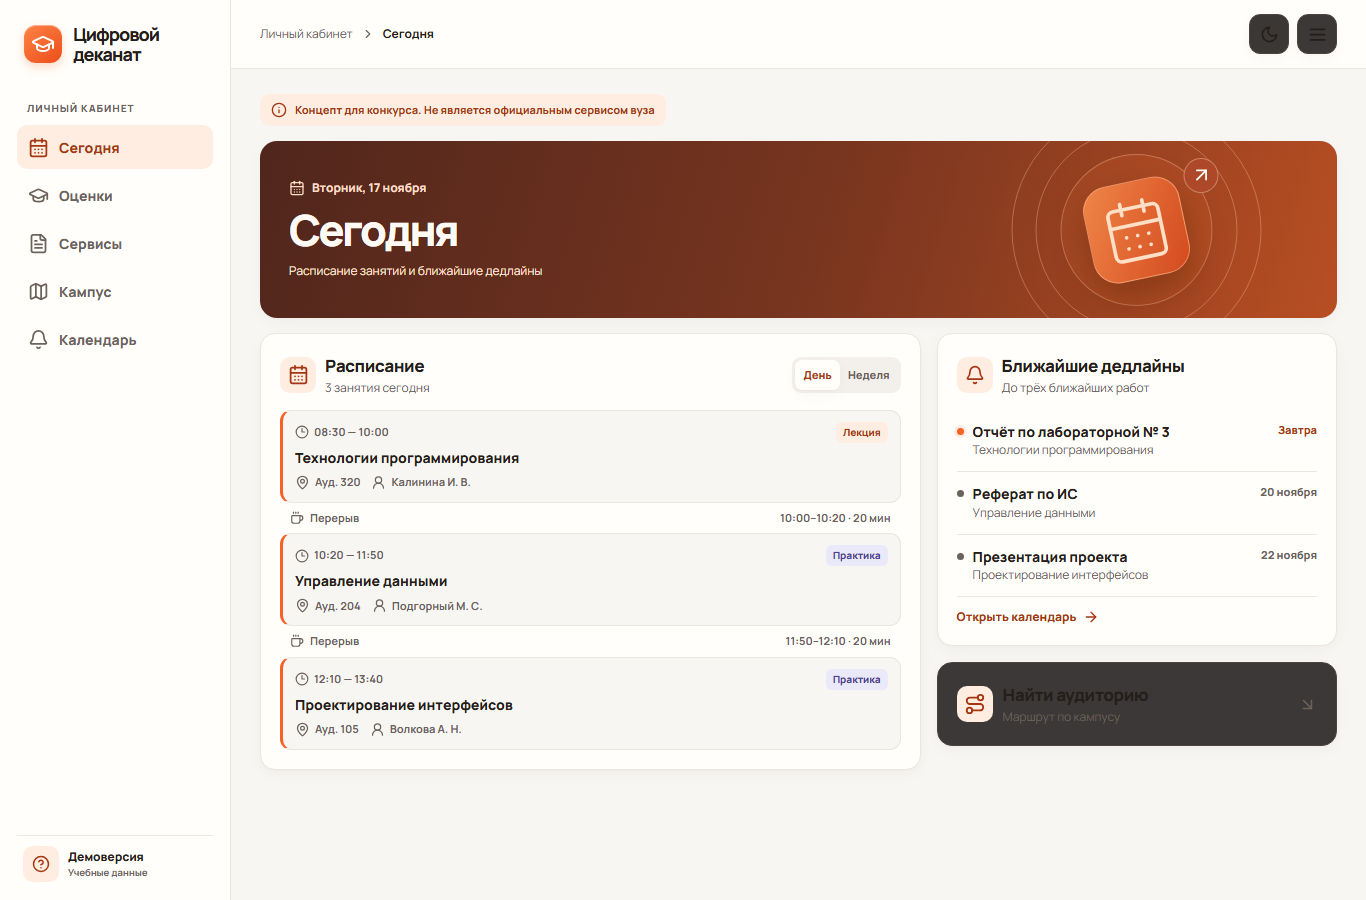
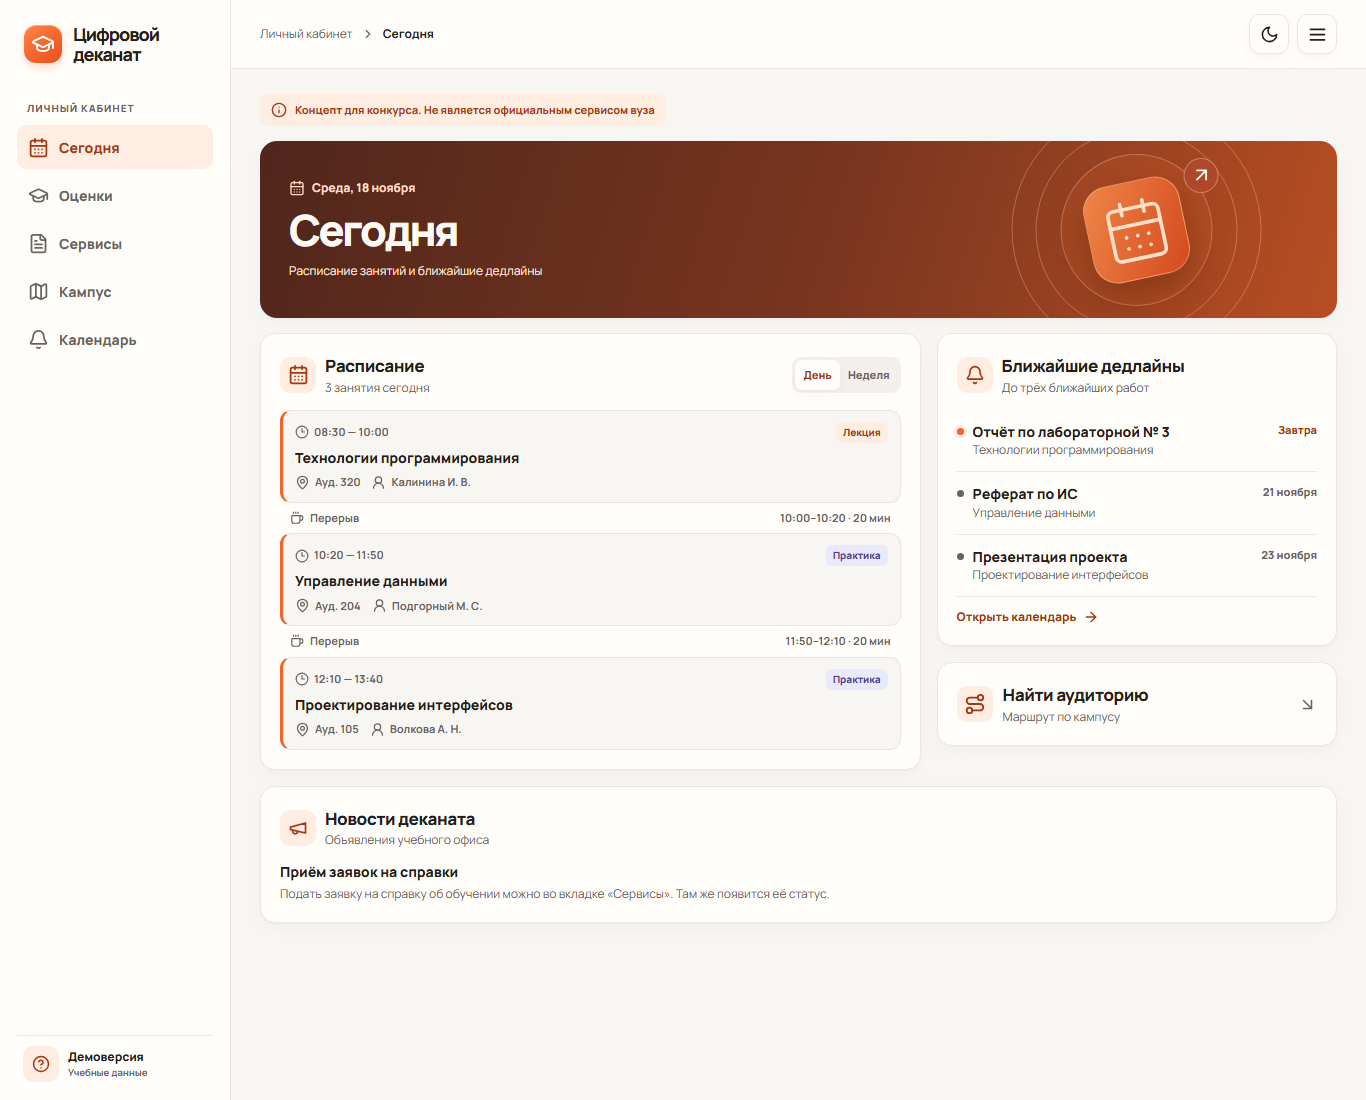
feat: выбор недели в расписании, новости на главной, выбор семестра

diff --git a/components/dashboard.tsx b/components/dashboard.tsx
@@ -3,16 +3,16 @@ import Link from "next/link";
 import { useEffect, useState, useTransition } from "react";
 import {
   ArrowDownRight, ArrowRight, ArrowUpRight, Bell, CalendarDays, ChevronLeft, ChevronRight,
-  CircleHelp, Clock3, Coffee, FileText, GraduationCap, Info, LogOut, Map, MapPin, Menu,
+  CircleHelp, Clock3, Coffee, FileText, GraduationCap, Info, LogOut, Map, MapPin, Megaphone, Menu,
   Route, Shield, UserRound, X, type LucideIcon,
 } from "lucide-react";
 import { apply, changeStatus, logout } from "@/app/actions";
-import { campusDay, dateLabel, plusDays, services, statuses, timeLabel, type DashboardData } from "@/lib/model";
+import { campusDay, dateLabel, plusDays, services, statuses, timeLabel, weekStart, weeksBetween, type DashboardData } from "@/lib/model";
 import type { Tab } from "@/lib/tabs";
 import { Button } from "@/components/ui/button";
 import { ThemeToggle } from "@/components/theme";
 import { Campus } from "./campus";
-import { DeadlineCalendar } from "./calendar";
+import { DeadlineCalendar, WeekPicker } from "./calendar";
 import type { RequestType } from "@prisma/client";
 
 const navigation: { id: Tab; title: string; icon: LucideIcon }[] = [
@@ -28,12 +28,16 @@ function Empty({ children }: { children: React.ReactNode }) {
 }
 
 const lessonForms: Record<string, string> = { one: "занятие", few: "занятия", many: "занятий" };
+function countLabel(count: number, forms: [string, string, string]) {
+  const rule = new Intl.PluralRules("ru").select(count);
+  return count + " " + forms[rule === "one" ? 0 : rule === "few" ? 1 : 2];
+}
 
 function Schedule({ day, lessons, mapUrl }: { day: string; lessons: DashboardData["lessons"]; mapUrl: string }) {
   const [weekly, setWeekly] = useState(false);
   const [offset, setOffset] = useState(0);
-  const weekday = (plusDays(day, 0).getUTCDay() + 6) % 7;
-  const days = weekly ? Array.from({ length: 7 }, (_, index) => plusDays(day, offset * 7 + index - weekday)) : [plusDays(day, 0)];
+  const monday = campusDay(weekStart(day));
+  const days = weekly ? Array.from({ length: 7 }, (_, index) => plusDays(monday, offset * 7 + index)) : [plusDays(day, 0)];
   const selected = lessons.filter((lesson) => campusDay(new Date(lesson.startsAt)) === day);
   return <section className="panel schedule">
     <div className="section-head"><div className="heading-with-icon"><span className="soft-icon"><CalendarDays size={21} /></span><div><h2>Расписание</h2><p className="muted">{weekly ? "Занятия по дням недели" : selected.length + " " + lessonForms[new Intl.PluralRules("ru").select(selected.length)] + " сегодня"}</p></div></div>
@@ -43,7 +47,7 @@ function Schedule({ day, lessons, mapUrl }: { day: string; lessons: DashboardDat
       </div>
     </div>
     {weekly && <div className="week-controls"><Button variant="icon" aria-label="Предыдущая неделя" onClick={() => setOffset(offset - 1)}><ChevronLeft size={18} /></Button>
-      <span>{dateLabel(days[0])} — {dateLabel(days[6])}</span>
+      <WeekPicker week={plusDays(monday, offset * 7)} today={day} onPick={(date) => setOffset(weeksBetween(day, campusDay(date)))} />
       <Button variant="icon" aria-label="Следующая неделя" onClick={() => setOffset(offset + 1)}><ChevronRight size={18} /></Button></div>}
     {days.map((date) => {
       const rows = lessons.filter((item) => campusDay(new Date(item.startsAt)) === campusDay(date));
@@ -85,13 +89,24 @@ function Deadlines({ items, day, href }: { items: DashboardData["deadlines"]; da
   </section>;
 }
 
+function News({ items }: { items: DashboardData["news"] }) {
+  return <section className="panel news">
+    <div className="section-head"><div className="heading-with-icon"><span className="soft-icon"><Megaphone size={20} /></span><div><h2>Новости деканата</h2><p className="muted">Объявления учебного офиса</p></div></div></div>
+    {items.length ? <div className="news-list">{items.map((item) => <article key={item.id}><h3>{item.title}</h3><p className="muted">{item.body}</p></article>)}</div> : <Empty>Новостей пока нет</Empty>}
+  </section>;
+}
+
 function Grades({ grades }: { grades: DashboardData["grades"] }) {
-  const [all, setAll] = useState(false);
-  const term = Math.max(...grades.map((grade) => grade.term));
-  const rows = all ? grades : grades.filter((grade) => grade.term === term);
+  const terms = [...new Set(grades.map((grade) => grade.term))].sort((left, right) => right - left);
+  const [view, setView] = useState(() => (terms.length ? String(terms[0]) : "all"));
+  const all = view === "all";
+  const rows = all ? grades : grades.filter((grade) => String(grade.term) === view);
   return <section className="panel">
-    <div className="section-head"><div><h2>Дисциплины</h2><p className="muted">{grades.length ? "Семестр " + term : "Баллы по дисциплинам"}</p></div>
-      <div className="segmented"><button aria-pressed={!all} onClick={() => setAll(false)}>Семестр</button><button aria-pressed={all} onClick={() => setAll(true)}>Вся учёба</button></div></div>
+    <div className="section-head"><div><h2>Дисциплины</h2><p className="muted">{grades.length ? (all ? "Все семестры" : "Семестр " + view) + " · " + countLabel(rows.length, ["дисциплина", "дисциплины", "дисциплин"]) : "Баллы по дисциплинам"}</p></div>
+      <select className="select-control" aria-label="Семестр" value={view} onChange={(event) => setView(event.target.value)} disabled={!grades.length}>
+        {terms.map((value) => <option key={value} value={String(value)}>Семестр {value}</option>)}
+        <option value="all">Вся учёба</option>
+      </select></div>
     {rows.length === 0 && <Empty>Оценок пока нет</Empty>}
     {rows.map((grade) => {
       const left = Math.max(0, grade.threshold - grade.score);
@@ -194,20 +209,20 @@ export function Dashboard({ tab, day, data, role, name, demo = false, initialRoo
         <div className="banner-content"><p><CalendarDays size={16} /> <span className="banner-date">{dateLabel(plusDays(day, 0), true)}</span></p><h1>Сегодня</h1><div>Расписание занятий и ближайшие дедлайны</div></div>
         <div className="banner-art" aria-hidden="true"><div className="orbit orbit-one" /><div className="orbit orbit-two" /><div className="orbit orbit-three" /><div className="banner-icon"><CalendarDays size={68} strokeWidth={1.3} /></div><span className="art-arrow"><ArrowUpRight size={22} /></span></div>
       </section> : <div className="page-heading"><h1>{title}</h1></div>}
-      {tab === "today" && <div className="dashboard-grid">
-        <Schedule lessons={data.lessons} day={day} mapUrl={base + "map"} />
-        <div className="content-stack"><Deadlines items={data.deadlines} day={day} href={base + "calendar"} />
-          <Link className="panel route-link" href={base + "map"}><span className="soft-icon"><Route size={22} /></span><div><h2>Найти аудиторию</h2><p className="muted">Маршрут по кампусу</p></div><ArrowDownRight size={19} /></Link>
+      {tab === "today" && <div className="content-stack">
+        <div className="dashboard-grid">
+          <Schedule lessons={data.lessons} day={day} mapUrl={base + "map"} />
+          <div className="content-stack"><Deadlines items={data.deadlines} day={day} href={base + "calendar"} />
+            <Link className="panel route-link" href={base + "map"}><span className="soft-icon"><Route size={22} /></span><div><h2>Найти аудиторию</h2><p className="muted">Маршрут по кампусу</p></div><ArrowDownRight size={19} /></Link>
+          </div>
         </div>
+        <News items={data.news} />
       </div>}
       {tab === "grades" && <Grades grades={data.grades} />}
       {tab === "services" && <Services role={role} requests={data.requests} demo={demo} />}
       {tab === "map" && <Campus key={initialRoom ?? "campus"} lessons={data.lessons} initialRoom={initialRoom} />}
       {tab === "calendar" && <div className="content-stack">
         <div className="dashboard-grid campus-grid"><DeadlineCalendar day={day} items={data.deadlines} selected={selectedDay} onSelect={setSelectedDay} /><Deadlines items={selectedDay ? data.deadlines.filter((item) => campusDay(new Date(item.dueAt)) === selectedDay) : data.deadlines} day={day} /></div>
-        <details className="panel news"><summary>Новости деканата</summary>
-          {data.news.length ? data.news.map((item) => <article key={item.id}><h3>{item.title}</h3><p className="muted">{item.body}</p></article>) : <Empty>Новостей пока нет</Empty>}
-        </details>
       </div>}
     </main></div>
     {nav("bottom-nav")}

diff --git a/components/calendar.tsx b/components/calendar.tsx
@@ -1,8 +1,19 @@
 "use client";
 import { useState } from "react";
-import { ChevronLeft, ChevronRight } from "lucide-react";
+import { ChevronDown, ChevronLeft, ChevronRight } from "lucide-react";
 import { Button } from "@/components/ui/button";
 import { campusDay, dateLabel, plusDays, type DashboardData } from "@/lib/model";
+
+const weekdays = ["Пн", "Вт", "Ср", "Чт", "Пт", "Сб", "Вс"];
+
+function monthOf(date: Date) {
+  return new Date(Date.UTC(date.getUTCFullYear(), date.getUTCMonth(), 1, 12));
+}
+function rangeLabel(from: Date, to: Date) {
+  const day = (date: Date) => new Intl.DateTimeFormat("ru-RU", { timeZone: "Europe/Moscow", day: "numeric" }).format(date);
+  const dayMonth = (date: Date) => new Intl.DateTimeFormat("ru-RU", { timeZone: "Europe/Moscow", day: "numeric", month: "long" }).format(date);
+  return campusDay(from).slice(0, 7) === campusDay(to).slice(0, 7) ? day(from) + " — " + dayMonth(to) : dayMonth(from) + " — " + dayMonth(to);
+}
 
 export function DeadlineCalendar({ day, items, selected, onSelect }: {
   day: string;
@@ -25,7 +36,7 @@ export function DeadlineCalendar({ day, items, selected, onSelect }: {
       <Button variant="icon" aria-label="Следующий месяц" onClick={() => shift(1)}><ChevronRight size={18} /></Button>
     </div>
     <div className="calendar-grid">
-      {["Пн", "Вт", "Ср", "Чт", "Пт", "Сб", "Вс"].map((label) => <span className="muted" key={label}>{label}</span>)}
+      {weekdays.map((label) => <span className="muted" key={label}>{label}</span>)}
       {Array.from({ length: start }, (_, index) => <span key={"blank" + index} />)}
       {Array.from({ length: days }, (_, index) => {
         const date = plusDays(initial, index);
@@ -37,4 +48,59 @@ export function DeadlineCalendar({ day, items, selected, onSelect }: {
     </div>
     {selected && <button className="text-link" onClick={() => onSelect("")}>Показать все контрольные точки</button>}
   </section>;
+}
+
+export function WeekPicker({ week, today, onPick }: {
+  week: Date;
+  today: string;
+  onPick: (date: Date) => void;
+}) {
+  const [open, setOpen] = useState(false);
+  const [month, setMonth] = useState(() => monthOf(week));
+  const monday = campusDay(week);
+  const sunday = campusDay(plusDays(monday, 6));
+  const start = (month.getUTCDay() + 6) % 7;
+  const days = new Date(Date.UTC(month.getUTCFullYear(), month.getUTCMonth() + 1, 0)).getUTCDate();
+  function shift(offset: number) {
+    setMonth(new Date(Date.UTC(month.getUTCFullYear(), month.getUTCMonth() + offset, 1, 12)));
+  }
+  function toggle() {
+    setOpen(!open);
+    setMonth(monthOf(week));
+  }
+  function pick(date: Date) {
+    onPick(date);
+    setOpen(false);
+  }
+  return <div className="week-picker" onKeyDown={(event) => { if (event.key === "Escape") setOpen(false); }}>
+    <button type="button" className="week-trigger" aria-expanded={open} aria-haspopup="dialog" onClick={toggle}>
+      {rangeLabel(week, plusDays(sunday, 0))} <ChevronDown size={15} />
+    </button>
+    {open && <>
+      <button type="button" className="week-backdrop" aria-label="Закрыть выбор недели" tabIndex={-1} onClick={() => setOpen(false)} />
+      <div className="panel week-popover" role="dialog" aria-label="Выбор недели">
+        <div className="section-head">
+          <Button variant="icon" aria-label="Предыдущий месяц" onClick={() => shift(-1)}><ChevronLeft size={18} /></Button>
+          <strong className="calendar-month">{new Intl.DateTimeFormat("ru-RU", { month: "long", year: "numeric", timeZone: "Europe/Moscow" }).format(month)}</strong>
+          <Button variant="icon" aria-label="Следующий месяц" onClick={() => shift(1)}><ChevronRight size={18} /></Button>
+        </div>
+        <div className="calendar-grid week-grid">
+          {weekdays.map((label) => <span className="muted" key={label}>{label}</span>)}
+          {Array.from({ length: start }, (_, index) => <span key={"blank" + index} />)}
+          {Array.from({ length: days }, (_, index) => {
+            const date = plusDays(campusDay(month), index);
+            const key = campusDay(date);
+            const inWeek = key >= monday && key <= sunday;
+            return <button key={key} type="button" className={inWeek ? "in-week" : undefined} aria-current={key === today ? "date" : undefined} aria-label={dateLabel(date, true) + (inWeek ? ", выбранная неделя" : "")} onClick={() => pick(date)} autoFocus={key === monday}>
+              {index + 1}
+            </button>;
+          })}
+        </div>
+        <div className="week-popover-foot">
+          <button type="button" className="link-button" onClick={() => pick(plusDays(today, 0))}>Текущая неделя</button>
+          <button type="button" className="link-button" onClick={() => setOpen(false)}>Закрыть</button>
+        </div>
+      </div>
+    </>}
+  </div>;
 }

diff --git a/app/globals.css b/app/globals.css
@@ -115,8 +115,9 @@ h3 { font-size: 14px; font-weight: 800; line-height: 1.4; }
 .route-steps { list-style: none; padding: 0; margin: 12px 0 0; display: grid; gap: 8px; }
 .route-steps li { display: flex; align-items: start; gap: 7px; font-size: 12px; }
 .route-steps svg { flex: none; color: var(--accent-ink); }
-.news summary { font-weight: 850; }
-.news article { padding-top: 9px; }
+.news-list { display: grid; gap: 10px; }
+.news-list article + article { border-top: 1px solid var(--line); padding-top: 10px; }
+.news-list h3 { margin-bottom: 3px; }
 .bottom-nav { position: fixed; inset: auto 0 0; z-index: 3; display: grid; grid-template-columns: repeat(5,1fr); background: var(--surface); border-top: 1px solid var(--line); padding: 4px 2px calc(4px + env(safe-area-inset-bottom)); }
 .bottom-nav a { display: grid; justify-items: center; align-content: center; min-height: 51px; gap: 3px; color: var(--muted); font-size: 10px; font-weight: 800; }
 .bottom-nav a[aria-current="page"] { color: var(--accent-ink); background: var(--tint); border-radius: 10px; }
@@ -170,4 +171,24 @@ h3 { font-size: 14px; font-weight: 800; line-height: 1.4; }
 .calendar-grid button:hover, .calendar-grid button[aria-current="date"] { background: var(--soft); }
 .calendar-grid .has-deadline { background: var(--tint); color: var(--accent-ink); }
 .calendar-grid button[aria-pressed="true"] { outline: 2px solid var(--accent); outline-offset: -2px; }
+.week-picker { position: relative; display: flex; justify-content: center; }
+.week-trigger { display: inline-flex; align-items: center; justify-content: center; gap: 6px; min-height: 34px; padding: 4px 10px; border: 1px solid var(--line); border-radius: 9px; background: var(--bg); color: var(--ink); font-size: 12px; font-weight: 800; }
+.week-trigger:hover { background: var(--soft); }
+.week-trigger[aria-expanded="true"] { border-color: var(--accent); background: var(--tint); color: var(--accent-ink); }
+.week-popover { position: absolute; z-index: 6; top: calc(100% + 8px); left: 50%; transform: translateX(-50%); width: min(288px, calc(100vw - 44px)); }
+.week-popover .section-head { margin-bottom: 8px; }
+.week-popover .calendar-month { font-size: 14px; }
+.week-grid button { min-height: 32px; }
+.week-grid .in-week { background: var(--tint); color: var(--accent-ink); }
+.week-grid button[aria-current="date"] { box-shadow: inset 0 0 0 2px var(--accent); }
+.week-popover-foot { display: flex; justify-content: space-between; gap: 8px; margin-top: 9px; padding-top: 9px; border-top: 1px solid var(--line); }
+.week-backdrop { display: none; }
+@media (max-width: 719px) {
+  .week-backdrop { display: block; position: fixed; inset: 0; z-index: 5; width: 100%; height: 100%; border: 0; padding: 0; background: #2a1a1166; }
+  .week-popover { position: fixed; z-index: 6; top: 50%; left: 50%; right: auto; transform: translate(-50%, -50%); width: min(340px, calc(100vw - 28px)); max-height: calc(100dvh - 96px); overflow: auto; }
+}
+.link-button { border: 0; background: none; padding: 0; font: inherit; font-size: 11px; font-weight: 850; color: var(--accent-ink); }
+.link-button:hover { text-decoration: underline; }
+.select-control { min-height: 36px; max-width: 100%; border: 1px solid var(--line); border-radius: 9px; background: var(--bg); color: var(--ink); padding: 5px 9px; font-size: 12px; font-weight: 800; }
+.select-control:hover { background: var(--soft); }
 .banner-date::first-letter { text-transform: uppercase; }

diff --git a/app/cabinet/[tab]/page.tsx b/app/cabinet/[tab]/page.tsx
@@ -15,7 +15,7 @@ export default async function Cabinet({ params, searchParams }: { params: Promis
     tab === "grades" ? db.grade.findMany({ where: { userId: user.id }, orderBy: { term: "desc" } }) : [],
     tab === "today" || tab === "calendar" ? db.deadline.findMany({ where: { userId: user.id }, orderBy: { dueAt: "asc" } }) : [],
     tab === "services" ? db.serviceRequest.findMany({ where: { userId: user.id }, orderBy: { createdAt: "desc" } }) : [],
-    tab === "calendar" ? db.news.findMany({ orderBy: { createdAt: "desc" } }) : [],
+    tab === "today" ? db.news.findMany({ orderBy: { createdAt: "desc" } }) : [],
   ]);
   return <Dashboard initialRoom={typeof room === "string" ? room : undefined} tab={tab} day={campusDay(new Date())} role={user.role} name={user.name} data={{
     lessons: lessons.map(({ userId, ...lesson }) => ({ ...lesson, startsAt: lesson.startsAt.toISOString(), endsAt: lesson.endsAt.toISOString() })),

diff --git a/lib/model.ts b/lib/model.ts
@@ -18,6 +18,13 @@ export function dateLabel(date: Date, weekday = false) {
 export function plusDays(day: string, count: number) {
   return new Date(Date.parse(day + "T12:00:00+03:00") + count * 86400000);
 }
+export function weekStart(day: string) {
+  const weekday = (plusDays(day, 0).getUTCDay() + 6) % 7;
+  return plusDays(day, -weekday);
+}
+export function weeksBetween(from: string, to: string) {
+  return Math.round((+weekStart(to) - +weekStart(from)) / 604800000);
+}
 export interface DashboardData {
   lessons: { id: string; title: string; teacher: string; room: string; type: "LECTURE" | "PRACTICE"; startsAt: string; endsAt: string }[];
   grades: { id: string; title: string; score: number; threshold: number; term: number }[];
